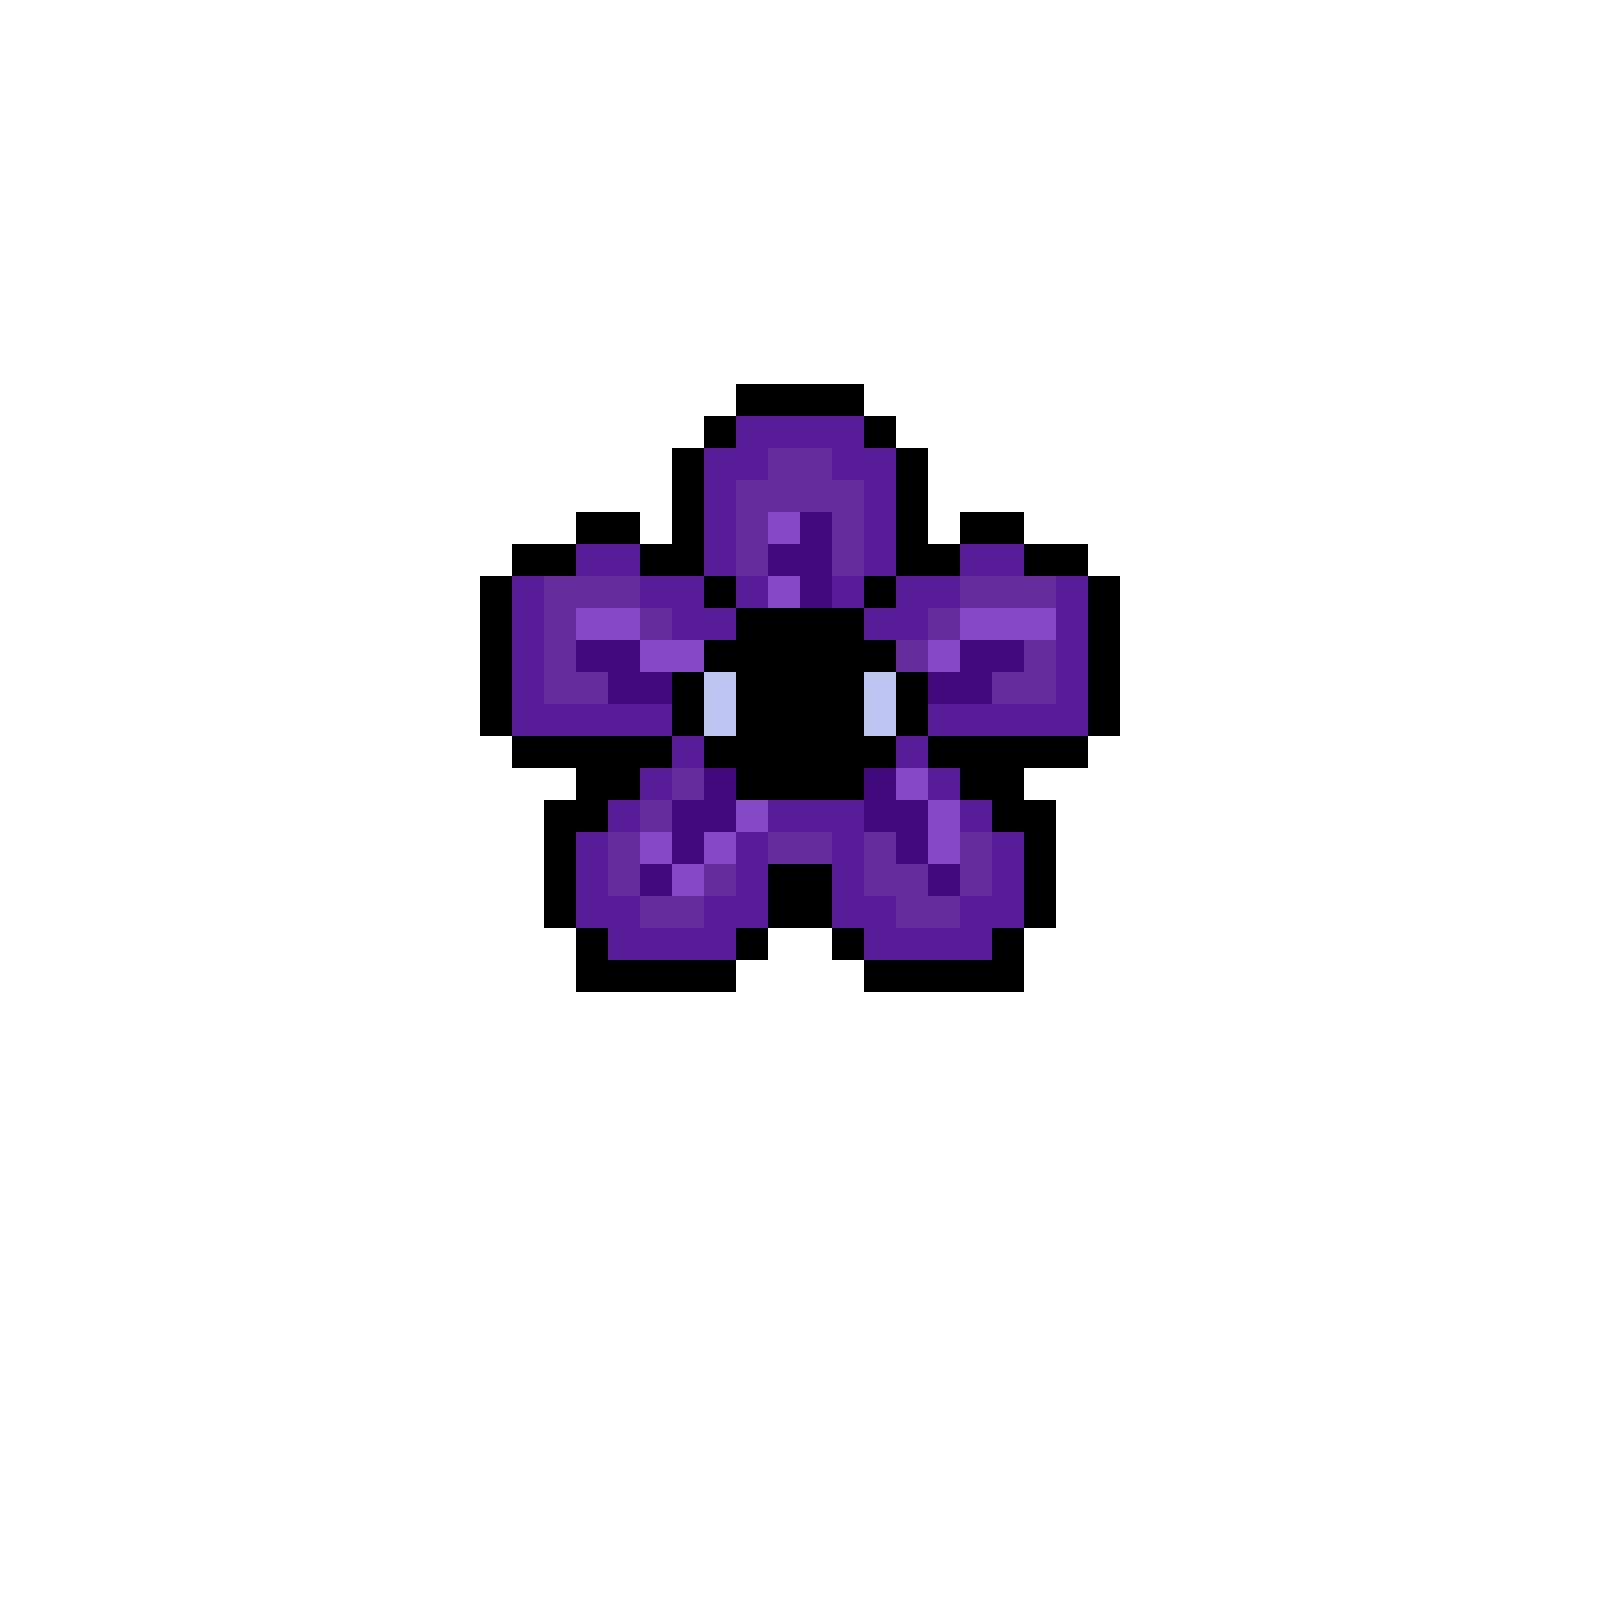
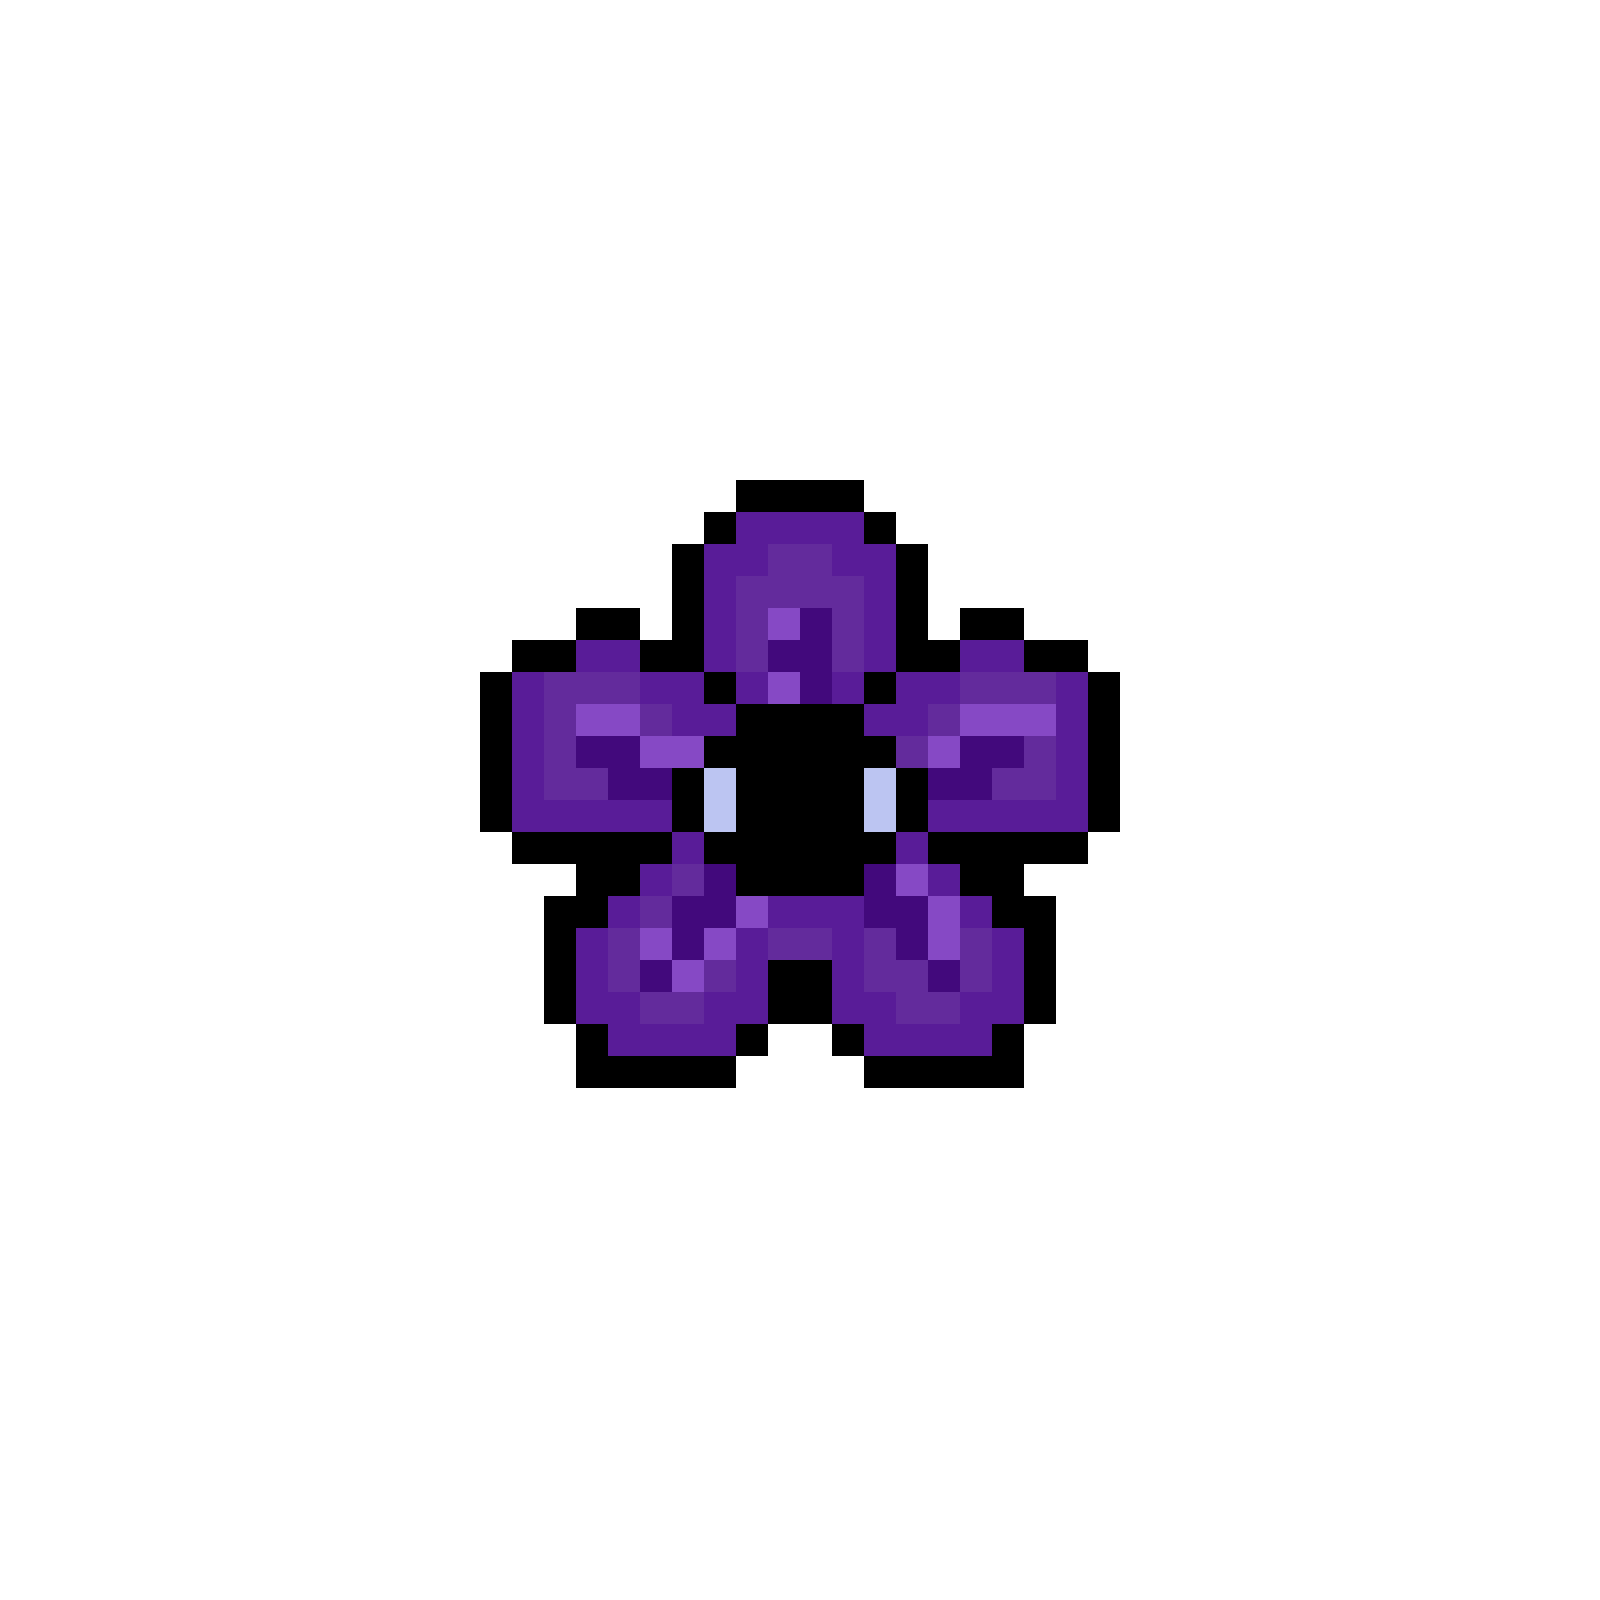
dark mode

Changed region(s): [[0.2812, 0.2188, 0.7188, 0.6875]]

diff --git a/index.html b/index.html
@@ -17,13 +17,7 @@
     ></script>
   </head>
   <body>
-    <picture>
-      <source
-      srcset="images/background-dark.png"
-      media="(prefers-color-scheme: dark)"/>
-      <img class="background"
-      src="images/background-light.png"/>
-    </picture>
+    
     <header>
       <h1>strawb3rry b3ar</h1>
       <nav>
@@ -37,14 +31,25 @@
       <nav>
         <ul class="no-bullets">
           <li>
-            <img src="images/sona.png" alt="persona" />
+            <picture>
+             <source
+                 srcset="images/sona-dark.png"
+                media="(prefers-color-scheme: dark)"/>
+                <img src="images/sona-light.png"/>
+             </picture>
             <picture>
              <source
                  srcset="images/flower1-dark.png"
                 media="(prefers-color-scheme: dark)"/>
                 <img src="images/flower1-light.png"/>
              </picture>
-            <img src="images/flower2-light.png" alt="creepy flower" />
+            <picture>
+             <source
+                 srcset="images/flower2-dark.png"
+                media="(prefers-color-scheme: dark)"/>
+                <img src="images/flower2-light.png"/>
+             </picture>
+          
           </li>
         </ul>
       </nav>

diff --git a/css/normal.css b/css/normal.css
@@ -33,6 +33,12 @@ img {
 
 body {
   font-family: "Comic Relief", system-ui;
+  background-image: light-dark(
+    url(../images/background-light.png),
+    url(../images/background-dark.png)
+  );
+
+  background-size: cover;
 }
 
 /**************************
